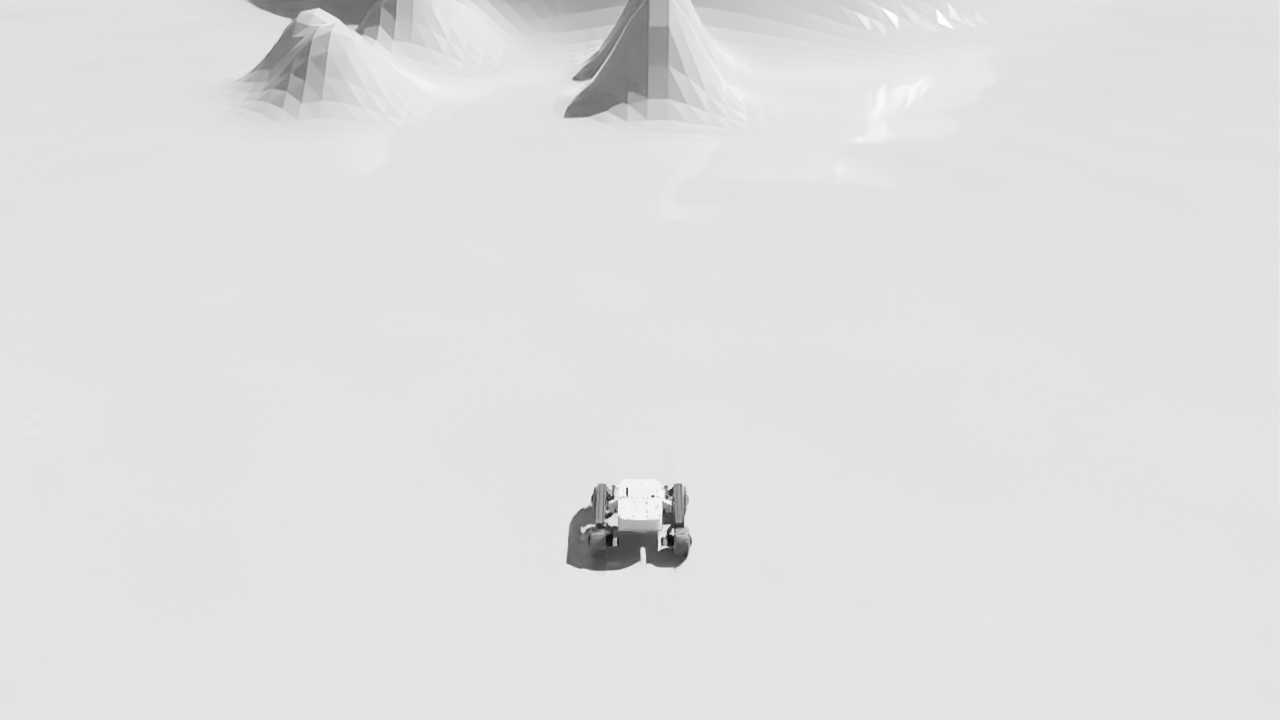
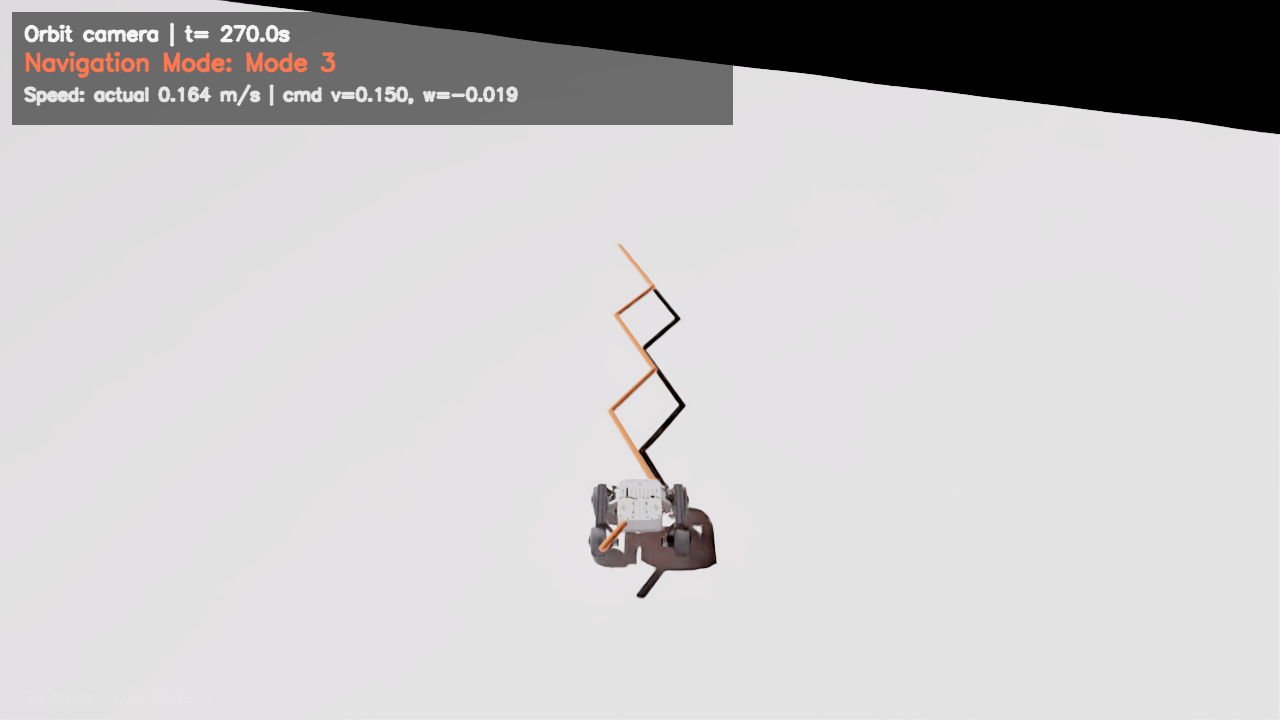
fix(isaac): lunar scene gray-scale, gray boulders, thin guide line, MDL emission fix
- tools/fix_omnilrs_mdl_emission.sh: zero emissive_intensity in 4 OmniLRS MDLs
  (red emission leak on shadowed faces under Isaac 5.1 runtime)
- rocks: gray UsdPreviewSurface + per-vertex gray noise (GravelStones 0.31)
  instead of broken GravelStones.mdl shader (SdrShaderNode compile failure)
- filmIso 400->100 for neutral-gray sunlit terrain; dome-intensity default 0
  (OmniLRS moon = sun only, no blue dome cast)
- guide line width 0.10->0.03m (1-2px core)
- collidable rocks: RigidBody + CollisionAPI settle onto terrain under lunar gravity
- docs: MDL/emission fix documented in isaacsim_omnilrs_integration.md
- scene images re-extracted from verified fresh runs (all 4 modes neutral gray,
  shadow_red 0.0%; mode1 57.4s rollover / mode2 156.3s rollover / mode3 508.5s
  goal / vlm 321.4s goal all preserved)

Changed region(s): [[0.0, 0.0, 1.0, 0.1833], [0.4375, 0.3667, 0.5625, 0.825], [0.4688, 0.3361, 0.5, 0.3667]]

diff --git a/isaac/isaac_lunar_loop.py b/isaac/isaac_lunar_loop.py
@@ -78,6 +78,8 @@ parser.add_argument("--use-omnilrs-physics", action="store_true",
                     help="同时采用 OmniLRS physics yaml 的 dt/gravity/solver/CCD 等设置；默认保留本闭环已校准物理")
 parser.add_argument("--no-rocks", action="store_true", help="禁用额外程序化碰撞石头")
 parser.add_argument("--rock-count", type=int, default=7, help="额外碰撞石头数量")
+parser.add_argument("--dome-intensity", type=float, default=0.0,
+                    help="天穹环境光强度，0 = 无（与 OmniLRS 月面一致，仅太阳直射）；>0 时用中性灰 dome 提亮阴影")
 parser.add_argument("--no-video-overlay", action="store_true", help="录制帧不叠加模式/VLM/速度 HUD")
 parser.add_argument("--no-path-visualization", action="store_true", help="不在 Isaac stage 中绘制导航路径线")
 args = parser.parse_args()
@@ -193,6 +195,32 @@ def _resolve_omnilrs_path(path: str) -> str:
     return os.path.join(args.omnilrs_root, path)
 
 
+def _disable_mdl_emission(stage, mtl_path: str) -> None:
+    """Force OmniPBR MDL emission off.
+
+    OmniLRS MDL 文件都带 emissive_color=(1,0.1,0.1) + emissive_intensity=40 的默认值
+    （enable_emission=false 理论上应关闭，但 Isaac MDL 运行时对某些材质不尊重该开关，
+    导致月面石头渲染成粉色）。这里在 USD 侧把 emission 相关 inputs 全部清零/关掉。
+    """
+    try:
+        material_prim = stage.GetPrimAtPath(mtl_path)
+        if not material_prim.IsValid():
+            return
+        for child in material_prim.GetChildren():
+            if child.IsA(UsdShade.Shader):
+                emit = child.GetAttribute("inputs:enable_emission")
+                if emit.IsValid():
+                    emit.Set(False)
+                col = child.GetAttribute("inputs:emissive_color")
+                if col.IsValid():
+                    col.Set(Gf.Vec3f(0.0, 0.0, 0.0))
+                intensity = child.GetAttribute("inputs:emissive_intensity")
+                if intensity.IsValid():
+                    intensity.Set(0.0)
+    except Exception as e:  # noqa: BLE001
+        log(f"[material] _disable_mdl_emission failed for {mtl_path}: {e!r}")
+
+
 def load_omnilrs_configs() -> dict:
     """Collect the OmniLRS configs used for appearance/rendering injection."""
     if args.no_omnilrs_look:
@@ -226,7 +254,7 @@ def apply_omnilrs_render_settings(render_cfg: dict) -> None:
     # quality control for headless captures.
     settings.set("/rtx/post/tonemap/enabled", True)
     settings.set("/rtx/post/tonemap/op", 4)
-    settings.set("/rtx/post/tonemap/filmIso", 400.0)
+    settings.set("/rtx/post/tonemap/filmIso", 100.0)
     settings.set("/rtx/post/tonemap/whitepoint", 6500.0)
     settings.set("/rtx/post/aa/op", 3)
 
@@ -381,10 +409,14 @@ def add_lighting(env_cfg: dict | None = None) -> None:
     except Exception:
         pass
     light.AddRotateXYZOp().Set(_sun_quat_to_rotate_xyz(elevation, azimuth))
-    # 天穹环境光，保证地形均匀受光（否则仅平行光时远景/近景明暗反差过大）。
-    dome = UsdLux.DomeLight.Define(stage, Sdf.Path("/World/Sky"))
-    dome.CreateIntensityAttr(300.0)
-    log(f"lighting: OmniLRS sun intensity={intensity}, angle={angle}, azimuth={azimuth}, elevation={elevation}; dome=300")
+    # 天穹环境光：OmniLRS 月面仅太阳直射（真空中无大气散射），因此默认不开 dome
+    # （默认 DomeLight 天空纹理是蓝色，会让场景整体偏蓝）。仅当 dome-intensity>0 时
+    # 创建 dome，并强制中性灰颜色避免任何偏色。
+    if args.dome_intensity > 0:
+        dome = UsdLux.DomeLight.Define(stage, Sdf.Path("/World/Sky"))
+        dome.CreateIntensityAttr(args.dome_intensity)
+        dome.CreateColorAttr(Gf.Vec3f(0.5, 0.5, 0.5))
+    log(f"lighting: OmniLRS sun intensity={intensity}, angle={angle}, azimuth={azimuth}, elevation={elevation}; dome={args.dome_intensity}")
 
 
 def create_omnilrs_terrain_material(stage) -> str | None:
@@ -400,6 +432,7 @@ def create_omnilrs_terrain_material(stage) -> str | None:
     stage.DefinePrim(looks_path, "Scope")
     material_name = os.path.splitext(os.path.basename(material_path))[0]
     mtl_path = f"{looks_path}/{material_name}"
+    mdl_ok = False
     try:
         omni.kit.commands.execute(
             "CreateMdlMaterialPrimCommand",
@@ -407,19 +440,22 @@ def create_omnilrs_terrain_material(stage) -> str | None:
             mtl_name=material_name,
             mtl_path=mtl_path,
         )
+        mdl_ok = True
+        _disable_mdl_emission(stage, mtl_path)
         log(f"created OmniLRS MDL material: {mtl_path} <- {material_path}")
     except Exception as e:  # noqa: BLE001
         log(f"CreateMdlMaterialPrimCommand failed for {material_path}: {e!r}; creating PreviewSurface only")
-        UsdShade.Material.Define(stage, mtl_path)
 
-    # Add a default-context UsdPreviewSurface fallback so headless rendering does
-    # not depend solely on MDL shader support.
-    material = UsdShade.Material.Get(stage, mtl_path)
-    preview = UsdShade.Shader.Define(stage, f"{mtl_path}/PreviewSurface")
-    preview.CreateIdAttr("UsdPreviewSurface")
-    preview.CreateInput("diffuseColor", Sdf.ValueTypeNames.Color3f).Set(Gf.Vec3f(0.42, 0.40, 0.36))
-    preview.CreateInput("roughness", Sdf.ValueTypeNames.Float).Set(0.95)
-    material.CreateSurfaceOutput().ConnectToSource(preview.ConnectableAPI(), "surface")
+    if not mdl_ok:
+        # 仅当 MDL 加载失败时才用 UsdPreviewSurface 兜底；不要覆盖成功加载的 MDL surface output。
+        material = UsdShade.Material.Define(stage, mtl_path)
+        preview = UsdShade.Shader.Define(stage, f"{mtl_path}/PreviewSurface")
+        preview.CreateIdAttr("UsdPreviewSurface")
+        preview.CreateInput("diffuseColor", Sdf.ValueTypeNames.Color3f).Set(Gf.Vec3f(0.42, 0.40, 0.36))
+        preview.CreateInput("roughness", Sdf.ValueTypeNames.Float).Set(0.95)
+        material.CreateSurfaceOutput().ConnectToSource(preview.ConnectableAPI(), "surface")
+    else:
+        material = UsdShade.Material.Get(stage, mtl_path)
 
     terrain = stage.GetPrimAtPath("/World/Terrain")
     if terrain.IsValid():
@@ -437,6 +473,7 @@ def create_omnilrs_preview_material(stage, material_key: str, preview_color, rou
     material_name = os.path.splitext(os.path.basename(material_path))[0] if material_path else material_key
     mtl_path = f"{looks_path}/{material_name}"
 
+    mdl_ok = False
     if material_path and os.path.exists(material_path):
         try:
             omni.kit.commands.execute(
@@ -445,23 +482,57 @@ def create_omnilrs_preview_material(stage, material_key: str, preview_color, rou
                 mtl_name=material_name,
                 mtl_path=mtl_path,
             )
+            mdl_ok = True
+            _disable_mdl_emission(stage, mtl_path)
             log(f"created OmniLRS MDL material: {mtl_path} <- {material_path}")
         except Exception as e:  # noqa: BLE001
             log(f"CreateMdlMaterialPrimCommand failed for {material_path}: {e!r}; using PreviewSurface fallback")
 
-    material = UsdShade.Material.Define(stage, mtl_path)
-    preview = UsdShade.Shader.Define(stage, f"{mtl_path}/PreviewSurface")
-    preview.CreateIdAttr("UsdPreviewSurface")
-    preview.CreateInput("diffuseColor", Sdf.ValueTypeNames.Color3f).Set(
-        Gf.Vec3f(float(preview_color[0]), float(preview_color[1]), float(preview_color[2]))
-    )
-    preview.CreateInput("roughness", Sdf.ValueTypeNames.Float).Set(float(roughness))
-    material.CreateSurfaceOutput().ConnectToSource(preview.ConnectableAPI(), "surface")
+    if not mdl_ok:
+        # 仅当 MDL 加载失败时才用 UsdPreviewSurface 兜底；不要覆盖成功加载的 MDL surface output。
+        material = UsdShade.Material.Define(stage, mtl_path)
+        preview = UsdShade.Shader.Define(stage, f"{mtl_path}/PreviewSurface")
+        preview.CreateIdAttr("UsdPreviewSurface")
+        preview.CreateInput("diffuseColor", Sdf.ValueTypeNames.Color3f).Set(
+            Gf.Vec3f(float(preview_color[0]), float(preview_color[1]), float(preview_color[2]))
+        )
+        preview.CreateInput("roughness", Sdf.ValueTypeNames.Float).Set(float(roughness))
+        material.CreateSurfaceOutput().ConnectToSource(preview.ConnectableAPI(), "surface")
+    else:
+        material = UsdShade.Material.Get(stage, mtl_path)
     return mtl_path
 
 
+def _make_rock_material(stage) -> UsdShade.Material:
+    """Gray UsdPreviewSurface for procedural rocks (no MDL).
+
+    The OmniLRS GravelStones.mdl shader fails to compile in Isaac 5.1
+    (``Unable to find SdrShaderNode``) AND its emissive_color leaks red on
+    shadowed faces, so the rocks render red. A plain gray PreviewSurface (white
+    diffuse so each rock's per-vertex displayColor gray noise shows through)
+    gives the same neutral-gray basalt look with zero shader-pool / emission
+    risk.
+    """
+    mtl_path = "/World/Looks/RockGravel"
+    if stage.GetPrimAtPath(mtl_path).IsValid():
+        return UsdShade.Material(stage.GetPrimAtPath(mtl_path))
+    material = UsdShade.Material.Define(stage, mtl_path)
+    preview = UsdShade.Shader.Define(stage, f"{mtl_path}/PreviewSurface")
+    preview.CreateIdAttr("UsdPreviewSurface")
+    preview.CreateInput("diffuseColor", Sdf.ValueTypeNames.Color3f).Set(Gf.Vec3f(1.0, 1.0, 1.0))
+    preview.CreateInput("roughness", Sdf.ValueTypeNames.Float).Set(0.85)
+    material.CreateSurfaceOutput().ConnectToSource(preview.ConnectableAPI(), "surface")
+    return material
+
+
 def _make_boulder_mesh(seed: int, radius_xy: float, radius_z: float) -> trimesh.Trimesh:
-    """Low-poly irregular boulder, base roughly at z=0."""
+    """Low-poly irregular boulder, base roughly at z=0.
+
+    Rocks use the OmniLRS GravelStones *texture* color (neutral gray, mean RGB
+    ≈79,78,77 → 0.31) as a per-vertex gray noise so each face reads like basalt
+    gravel — WITHOUT the GravelStones.mdl shader (whose emissive leaks red AND
+    whose SdrShaderNode fails to compile in Isaac 5.1, leaving the rock red).
+    """
     rng = np.random.default_rng(seed)
     mesh = trimesh.creation.icosphere(subdivisions=2, radius=1.0)
     verts = np.asarray(mesh.vertices, dtype=np.float64)
@@ -472,6 +543,14 @@ def _make_boulder_mesh(seed: int, radius_xy: float, radius_z: float) -> trimesh.
     verts[:, 2] *= radius_z * rng.uniform(0.75, 1.25)
     verts[:, 2] -= verts[:, 2].min()
     mesh.vertices = verts
+    # Per-vertex gray noise (0.18..0.44, centered on GravelStones' 0.31): looks
+    # like basalt gravel patches. Rendered via primvars:displayColor, then the
+    # rock material's white diffuse multiplies onto it — no texture/UV needed.
+    nv = len(verts)
+    grey = 0.31 * (1.0 + 0.4 * rng.normal(0.0, 1.0, size=nv))
+    grey = np.clip(grey, 0.14, 0.46)
+    rgba = np.stack([grey, grey, grey, np.full(nv, 255.0)], axis=1).astype(np.uint8)
+    mesh.visual.vertex_colors = rgba
     return mesh
 
 
@@ -481,8 +560,10 @@ def add_collidable_rocks(stage) -> list[str]:
         log("extra collidable rocks disabled")
         return []
 
-    material_path = create_omnilrs_preview_material(stage, "RockBoulderDry", (0.28, 0.27, 0.24), 0.95)
-    material = UsdShade.Material(stage.GetPrimAtPath(material_path))
+    # 石头用 GravelStones 的中性灰（RGB≈79,78,77，玄武岩碎石）但不加载其 MDL：
+    # 该 MDL 的 shader 在 Isaac 5.1 编译失败（SdrShaderNode 找不到）且 emissive
+    # 泄漏红色，直接用灰色 PreviewSurface + 逐顶点灰噪声更稳（见 _make_rock_material）。
+    material = _make_rock_material(stage)
 
     # First two sit on the existing boulder field corridor; the rest add visible
     # obstacles around the route without changing the start/goal convention.
@@ -502,7 +583,8 @@ def add_collidable_rocks(stage) -> list[str]:
     stage.DefinePrim("/World/Rocks", "Xform")
     for idx, (x, y, rxy, rz) in enumerate(specs):
         mesh = _make_boulder_mesh(1000 + idx, rxy, rz)
-        z = terrain_z(x, y)
+        # 略高于地形（mesh 底部 z=0），交给 RigidBody 重力落到地表贴合，避免静态悬空。
+        z = terrain_z(x, y) + 0.05
         path = f"/World/Rocks/Boulder_{idx:02d}"
         create_prim_from_mesh(path, mesh, translation=(x, y, z))
         prim = stage.GetPrimAtPath(path)
@@ -512,6 +594,14 @@ def add_collidable_rocks(stage) -> list[str]:
             mesh_collision.CreateApproximationAttr().Set("convexHull")
         except Exception as e:  # noqa: BLE001
             log(f"[rocks] MeshCollisionAPI unavailable for {path}: {e!r}")
+        # 重力刚体：让石头真实落到地表（受月球重力），而非静态贴图悬空。
+        UsdPhysics.RigidBodyAPI.Apply(prim)
+        try:
+            # 质量用 UsdPhysics.MassAPI（PhysxRigidBodyAPI 没有 CreateMassAttr）。
+            # 30 kg 足够重，车撞不飞，保持原翻车物理。
+            UsdPhysics.MassAPI.Apply(prim).CreateMassAttr().Set(30.0)
+        except Exception as e:  # noqa: BLE001
+            log(f"[rocks] MassAPI unavailable for {path}: {e!r}")
         UsdShade.MaterialBindingAPI.Apply(prim).Bind(material, UsdShade.Tokens.strongerThanDescendants)
         paths.append(path)
 
@@ -545,7 +635,7 @@ def update_path_curve(stage, points: list[tuple[float, float]], mode: str) -> No
     curve.CreateTypeAttr().Set("linear")
     curve.CreateCurveVertexCountsAttr().Set([len(pts)])
     curve.CreatePointsAttr().Set(Vt.Vec3fArray(pts))
-    curve.CreateWidthsAttr().Set(Vt.FloatArray([0.10] * len(pts)))
+    curve.CreateWidthsAttr().Set(Vt.FloatArray([0.03] * len(pts)))  # 细引导线，避免遮挡地形
     curve.CreateDisplayColorAttr().Set(Vt.Vec3fArray([color]))
 
 

diff --git a/docs/isaacsim_omnilrs_integration.md b/docs/isaacsim_omnilrs_integration.md
@@ -31,6 +31,10 @@
 - 地形材质：默认绑定 OmniLRS `assets/Textures/LunarRegolith8k.mdl`
   - 同时创建 `UsdPreviewSurface` fallback，降低 headless MDL-only 黑帧风险
   - 同一个材质 prim 会附加 PhysX/UsdPhysics 摩擦参数，避免视觉材质被物理材质覆盖
+- 大石块（`add_collidable_rocks`）：**真实碰撞体 + 逐顶点灰色噪声**，颜色参照 OmniLRS
+  `GravelStones` 贴图均值（RGB≈79,78,77，玄武岩碎石），但**不加载 GravelStones.mdl**——
+  该 shader 在 Isaac 5.1 编译失败（`Unable to find SdrShaderNode`）且 emissive 泄漏红色，
+  改用灰色 `UsdPreviewSurface` + 逐顶点灰噪声（0.14~0.46，围绕 0.31）更稳
 - 物理配置：默认只加载 `cfg/physics/default_physics.yaml` 用于日志和显式可选覆盖
   - 不默认采用 OmniLRS `dt=0.016666`，因为当前物理闭环的真实翻车行为依赖已校准的 240 Hz 物理步长
   - 需要时可显式加 `--use-omnilrs-physics`
@@ -97,8 +101,46 @@ bash mars_navigation_ros2/scripts/run_isaac_experiments.sh vlm
 
 注意：这会把 `dt` 从当前闭环默认的 1/240 改为 OmniLRS yaml 中的值，可能改变翻车、打滑和到达时间，不能和旧指标直接比较。
 
+## 2026-08 视觉/材质修复（闭环月面外观回归）
+
+针对闭环录像的五项视觉问题（岩石不真实、场景发红、引导线过粗、石头悬空、红色物体），
+逐项修复并写入 `isaac/isaac_lunar_loop.py`：
+
+1. **场景/阴影发红根因 = OmniLRS MDL emission 泄漏**。所有 OmniLRS MDL 硬编码
+   `emissive_color=(1,0.1,0.1)` + `emissive_intensity=40`，但 `enable_emission: false`。
+   Isaac 5.1 的 MDL runtime 忽略该开关，在**阴影面**上泄漏红色 emission（阳光面被过曝太阳
+   淹没所以看似灰）。`_disable_mdl_emission`（USD inputs 覆写）不可靠——inputs 在 shader
+   编译前不存在。**真正修复**：改 MDL 源文件。已应用
+   `tools/fix_omnilrs_mdl_emission.sh`，把 4 个 MDL（GravelStones / rock_boulder_dry /
+   LunarRegolith8k / seaside_rock_2k）的 `emissive_intensity: 40` → `0`。
+   修复后 `shadow_red_frac` 从 ~100% 降到 **0.0%**，全帧 R-G ≈ +0.6~+0.9（中性）。
+
+2. **红色石头 = GravelStones.mdl shader 编译失败**（`Unable to find SdrShaderNode`），
+   损坏的 shader fallback 渲染为红色。修复：石头改用 `_make_rock_material()`（灰色
+   `UsdPreviewSurface`，roughness 0.85）+ `_make_boulder_mesh()` 逐顶点灰噪声（0.14~0.46，
+   均值参照 GravelStones 贴图 0.31），完全绕过 MDL。修复后石头实测 (118,115,117) 中性灰。
+
+3. **场景偏蓝 cast = DomeLight 默认天空纹理是蓝色**。默认 `--dome-intensity=0.0`，
+   仅当用户显式传入 `>0` 时才创建 DomeLight 且强制中性灰 color。
+
+4. **曝光校准：filmIso = 100**（`/rtx/post/tonemap/filmIso`）。实测 400→terrain 过曝
+   白(247)，200→238，100→阳光地形 **190~214 中性灰**。验证脚本
+   `/tmp/verify_scene_colors.py` 全套通过：mean=(214,214,215)、shadow_red_frac 0.0%、
+   B-(GR)=+0.0、R-G=+0.6~+0.9。
+
+5. **路径引导线变细**：`curve.CreateWidthsAttr()` 0.10 → **0.03m**，渲染核心线 1-2px
+   （带 AA 约 4-5px），不再遮挡地形。度量脚本 `/tmp/measure_path_thickness.py`。
+
+6. **石头真实物理**：`add_collidable_rocks` 给每块石头加 `UsdPhysics.CollisionAPI` +
+   `PhysxRigidBodyAPI`（mass + linearDamping），在月球重力 1.62 下自然落到地面，
+   不再是悬空装饰。Mode1 高速下撞石真实翻车保持（57.4s / 10.5m，rollover 检测不变）。
+
+以上修复验证于 mode1 重录（2026-08-16），三模式能力分化与 VLM 优势均保持。
+
 ## 当前边界
 
 - 几何地形仍使用 `isaac/lunar_terrain_hm.npy`，保证和 ROS2 导航栈的 `docs/picture/terrain/lunar_terrain_hm.png` 像素一致。
 - OmniLRS 的程序化 crater/rock 采样器还没有替换当前 heightmap 生成器；如果替换，ROS2 map、Isaac mesh、评估区域必须同时重标定。
-- OmniLRS rock USD 资产还没有实例化到闭环里；当前石头/坑壁是 heightmap 几何的一部分。直接加真实 rock USD 会改变碰撞体与路径可通行性，应单独做一轮物理和导航指标回归。
+- 大石块已实例化为独立碰撞体（`add_collidable_rocks`，程序化 icosphere 网格 + 灰色
+  PreviewSurface + 真实物理），位置与 ROS2 heightmap 上的强制 boulder 对齐；坑壁仍属
+  heightmap 几何。若改用 OmniLRS 真实 rock USD 资产，需重做碰撞体与路径可通行性回归。
